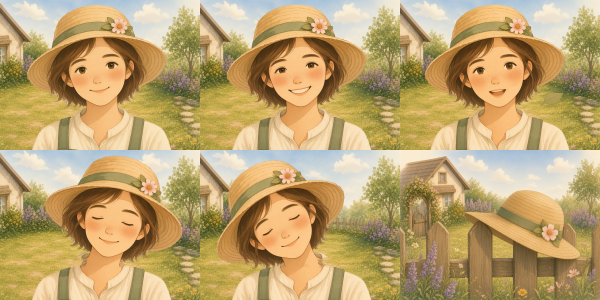
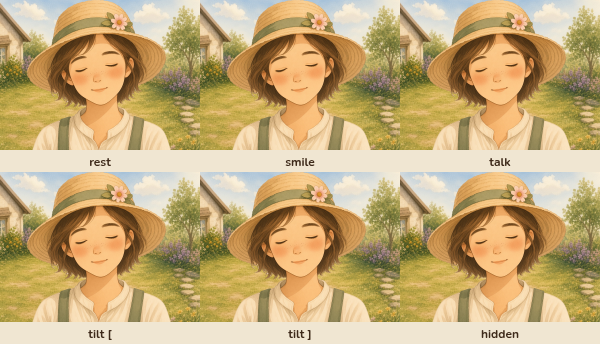
Fix farmer PIP paint, harvest strip layout, and capture harness
Paint farmer frames once (no canvas preflip) with CSS mirror only; keep
the preview video visible in pip-farmer mode instead of the mock oval.
Ensure keyboard mock source starts before doc shots, capture farmer grids
from the live pip with labels, and fix harvest icon z-index plus title layout.

diff --git a/renderer/dev-hooks.js b/renderer/dev-hooks.js
@@ -27,6 +27,7 @@
             show: showScreen, save, toast, mkBtn, gardenTodayKey,
             refreshLighting, renderHud, plotsForScene, syncPipVisibility,
             restorePipHome, startCamera, ensureSource, syncKeyboardStripMode,
+            ensureFarmerPipLive, waitForFarmerPipReady,
             primeSignalTraceForCapture, redrawSignalPanel,
             renderBreathRate, renderStretchHud, ensureStretchRingArt,
             renderSummary, renderMorningSummary, finishVisit,
@@ -803,14 +804,43 @@
             });
             show('summary');
         },
-        setKeyboardModeForCapture(on = true) {
+        async setKeyboardModeForCapture(on = true) {
             config.keyboard = !!on;
             if (on && source && source.setAuto) source.setAuto(false);
             if (els.mockBadge) els.mockBadge.hidden = !on && !config.mock;
             if (on) els.mockMode.textContent = 'Keyboard player';
             syncKeyboardStripMode();
+            if (on) {
+                await ensureFarmerPipLive();
+            }
             renderNeedsCard();
             return config.keyboard;
+        },
+        setFarmerNightRestForCapture() {
+            syncFromApp();
+            if (source && source.setNight) source.setNight(true);
+            if (source && source.setAuto) source.setAuto(false);
+            if (source && source.setKeys) {
+                source.setKeys({
+                    smile: false, talk: false, hide: false, tiltLeft: false, tiltRight: false,
+                });
+            }
+            return true;
+        },
+        async ensureFarmerPipForCapture() {
+            try {
+                await hooks.setKeyboardModeForCapture(true);
+                await ensureFarmerPipLive();
+                await waitForFarmerPipReady(10000);
+                syncFromApp();
+                if (source && source.setNight) {
+                    source.setNight((document.body.dataset.lighting || '') === 'night');
+                }
+                return true;
+            } catch (e) {
+                console.error('[ensureFarmerPipForCapture]', e);
+                return false;
+            }
         },
         exportFarmerStateGridDataUrl() {
             const SF = global.SmileFarmer;
@@ -849,48 +879,82 @@
             }
             return canvas.toDataURL('image/png');
         },
-        exportFarmerStateGridDataUrlWhenReady() {
-            const SF = global.SmileFarmer;
-            if (!SF) return Promise.resolve(null);
-            SF.preload('day');
-            const names = ['rest', 'smile', 'talk-1', 'tilt-left', 'tilt-right', 'hidden'];
-            return new Promise((resolve) => {
-                let left = names.length;
-                let failed = false;
-                const done = () => {
-                    if (!failed) resolve(hooks.exportFarmerStateGridDataUrl());
-                    else resolve(null);
-                };
-                for (const n of names) {
-                    const img = new Image();
-                    img.onload = () => { left -= 1; if (left <= 0) done(); };
-                    img.onerror = () => { failed = true; resolve(null); };
-                    img.src = SF.srcFor('day', n);
-                    if (img.complete && img.naturalWidth > 0) {
-                        left -= 1;
-                    }
-                }
-                if (left <= 0) done();
-            });
-        },
-        prepKeyboardHintsStripShot(opts) {
-            const plot = opts && opts.plot != null ? Number(opts.plot) : 4;
-            const progress = (opts && opts.progress) || { sun: 2, water: 1, fertilizer: 0, stake: false };
-            const channel = (opts && opts.channel) || 'water';
-            hooks.setKeyboardModeForCapture(true);
-            hooks.setNeedsCardDemo(plot, progress);
+        async exportFarmerStateGridFromLivePip() {
             syncFromApp();
-            if (opts && opts.lighting) setLightingOverride(opts.lighting);
-            else refreshLighting();
-            if (opts && opts.harvest) {
-                hooks.prepHarvestTendStripShot(plot);
-            } else {
-                hooks.setTendStripActiveForCapture(channel);
+            if (!els.preview || !els.preview.srcObject) await hooks.ensureFarmerPipForCapture();
+            if (source && source.setAuto) source.setAuto(false);
+            if (source && source.setNight) source.setNight(false);
+            refreshLighting();
+            const tiles = [
+                { label: 'rest', keys: { smile: false, talk: false, hide: false, tiltLeft: false, tiltRight: false } },
+                { label: 'smile', keys: { smile: true, talk: false, hide: false, tiltLeft: false, tiltRight: false } },
+                { label: 'talk', keys: { smile: false, talk: true, hide: false, tiltLeft: false, tiltRight: false } },
+                { label: 'tilt [', keys: { smile: false, talk: false, hide: false, tiltLeft: true, tiltRight: false } },
+                { label: 'tilt ]', keys: { smile: false, talk: false, hide: false, tiltLeft: false, tiltRight: true } },
+                { label: 'hidden', keys: { smile: false, talk: false, hide: true, tiltLeft: false, tiltRight: false } },
+            ];
+            const pipW = 200;
+            const pipH = 150;
+            const labelH = 22;
+            const cols = 3;
+            const canvas = document.createElement('canvas');
+            canvas.width = pipW * cols;
+            canvas.height = (pipH + labelH) * 2;
+            const ctx = canvas.getContext('2d');
+            ctx.fillStyle = '#f0e6d2';
+            ctx.fillRect(0, 0, canvas.width, canvas.height);
+            const v = els.preview;
+            if (!v) return null;
+            for (let i = 0; i < tiles.length; i++) {
+                const col = i % cols;
+                const row = Math.floor(i / cols);
+                const spec = tiles[i];
+                if (source && source.setKeys) source.setKeys(spec.keys);
+                await waitForFarmerPipReady(6000);
+                const x = col * pipW;
+                const y = row * (pipH + labelH);
+                try {
+                    ctx.drawImage(v, x, y, pipW, pipH);
+                } catch { /* ignore */ }
+                ctx.fillStyle = '#3E2A1A';
+                ctx.font = 'bold 12px Nunito, system-ui, sans-serif';
+                ctx.textAlign = 'center';
+                ctx.fillText(spec.label, x + pipW / 2, y + pipH + 16);
             }
-            document.body.dataset.demoCareChannel = channel;
-            renderNeedsCard();
-            hooks.captureRedraw();
-            return true;
+            if (source && source.setKeys) {
+                source.setKeys({ smile: false, talk: false, hide: false, tiltLeft: false, tiltRight: false });
+            }
+            return canvas.toDataURL('image/png');
+        },
+        async prepKeyboardHintsStripShot(opts) {
+            try {
+                const plot = opts && opts.plot != null ? Number(opts.plot) : 4;
+                const progress = (opts && opts.progress) || { sun: 2, water: 1, fertilizer: 0, stake: false };
+                const channel = (opts && opts.channel) || 'water';
+                await hooks.setKeyboardModeForCapture(true);
+                hooks.setNeedsCardDemo(plot, progress);
+                syncFromApp();
+                if (opts && opts.lighting) setLightingOverride(opts.lighting);
+                else refreshLighting();
+                syncFromApp();
+                if (source && source.setNight) {
+                    source.setNight((document.body.dataset.lighting || '') === 'night');
+                }
+                if (opts && opts.harvest) {
+                    hooks.prepHarvestTendStripShot(plot);
+                } else {
+                    hooks.setTendStripActiveForCapture(channel);
+                }
+                document.body.dataset.demoCareChannel = channel;
+                renderNeedsCard();
+                await ensureFarmerPipLive();
+                await waitForFarmerPipReady(10000);
+                hooks.captureRedraw();
+                return true;
+            } catch (e) {
+                console.error('[prepKeyboardHintsStripShot]', e);
+                return false;
+            }
         },
         };
 

diff --git a/scripts/capture-driver.js b/scripts/capture-driver.js
@@ -478,39 +478,50 @@ async function runKeyboardFarmerArt(win, outDir) {
     await G('g.prepCaptureGarden()');
     await sleep(600);
     await js('window.__smileGarden.setMockPipForCapture(true, { stream: true })');
-    await G('g.setKeyboardModeForCapture(true)');
+    const pipBoot = await G('g.ensureFarmerPipForCapture()');
+    if (!pipBoot) throw new Error('ensureFarmerPipForCapture failed during boot');
     await lightingTo('midday');
-    await G(`g.prepKeyboardHintsStripShot({ plot: 4, channel: 'water', progress: { sun: 2, water: 1, fertilizer: 0, stake: false } })`);
-    await sleep(500);
-    await G('g.captureRedraw()');
+    async function prepStrip(channel, progress, harvest) {
+        await G('g.setKeyboardModeForCapture(true)');
+        await G(`g.setNeedsCardDemo(4, ${JSON.stringify(progress)})`);
+        if (harvest) {
+            await G('g.prepHarvestTendStripShot(4)');
+        } else {
+            await G(`g.setTendStripActiveForCapture('${channel}')`);
+            await js(`document.body.dataset.demoCareChannel='${channel}'`);
+        }
+        await G('g.ensureFarmerPipForCapture()');
+        await G('g.captureRedraw()');
+        await sleep(200);
+    }
+    await prepStrip('water', { sun: 2, water: 1, fertilizer: 0, stake: false }, false);
     await shot('keyboard-hints-strip-day.png');
     await lightingTo('night');
-    await G(`g.prepKeyboardHintsStripShot({ plot: 4, channel: 'water', progress: { sun: 1, water: 0, fertilizer: 0, stake: false }, lighting: 'night' })`);
-    await sleep(500);
-    await G('g.captureRedraw()');
+    await G(`g.setLightingOverride('night')`);
+    await sleep(400);
+    await prepStrip('water', { sun: 1, water: 0, fertilizer: 0, stake: false }, false);
     await shot('keyboard-hints-strip-night.png');
     await lightingTo('midday');
-    await G(`g.prepKeyboardHintsStripShot({ plot: 4, harvest: true, channel: 'harvest' })`);
-    await sleep(500);
-    await G('g.captureRedraw()');
+    await prepStrip('harvest', { sun: 3, water: 2, fertilizer: 1, stake: true }, true);
     await shot('keyboard-hints-strip-harvest.png');
 
-    const gridUrl = await js('window.__smileGarden.exportFarmerStateGridDataUrlWhenReady()');
+    const gridUrl = await G('g.exportFarmerStateGridFromLivePip()');
     await writeDataUrl('farmer-states-day.png', gridUrl);
 
     await lightingTo('night');
-    await js(`(() => { const s = window.__smileGarden?.source; if (s) { s.setNight(true); s.setAuto(false); s.setKeys({ smile: false, talk: false, hide: false, tiltLeft: false, tiltRight: false }); } return true; })()`);
+    await js('window.__smileGarden.setMockPipForCapture(true, { stream: true })');
+    await G('g.setNeedsCardDemo(4, {"sun":1,"water":0,"fertilizer":0,"stake":false})');
+    await G('g.ensureFarmerPipForCapture()');
+    await G('g.setFarmerNightRestForCapture()');
     await sleep(400);
     await G('g.captureRedraw()');
     await sleep(200);
+    const pipVis = await G('!document.getElementById("pip").hidden');
+    if (!pipVis) throw new Error('pip hidden before farmer-night');
     await shotPip('farmer-night.png');
 
     await lightingTo('midday');
-    await G('g.setKeyboardModeForCapture(true)');
-    await G(`g.prepKeyboardHintsStripShot({ plot: 4, channel: 'water', progress: { sun: 2, water: 1, fertilizer: 0, stake: false } })`);
-    await js('window.__smileGarden.setMockPipForCapture(true, { stream: true })');
-    await G('g.captureRedraw()');
-    await sleep(300);
+    await prepStrip('water', { sun: 2, water: 1, fertilizer: 0, stake: false }, false);
     await shot('farmer-in-app.png');
 }
 

diff --git a/renderer/app.js b/renderer/app.js
@@ -873,6 +873,35 @@
         }
     }
 
+    async function ensureFarmerPipLive() {
+        if (!config.mock && !config.keyboard) return false;
+        syncKeyboardStripMode();
+        if (!(await ensureSource())) return false;
+        if (source && source.setNight) source.setNight(lighting === 'night');
+        if (!sourceReady) {
+            try { await startCamera(); } catch { return false; }
+        } else {
+            resumePipPreview();
+        }
+        return !!(els.preview && els.preview.srcObject);
+    }
+
+    function waitForFarmerPipReady(timeoutMs) {
+        const deadline = performance.now() + (timeoutMs || 6000);
+        return new Promise((resolve) => {
+            const step = () => {
+                const v = els.preview;
+                if (v && v.srcObject && v.readyState >= 2 && v.videoWidth > 0) {
+                    resolve(true);
+                    return;
+                }
+                if (performance.now() >= deadline) resolve(false);
+                else requestAnimationFrame(step);
+            };
+            step();
+        });
+    }
+
     function renderTendStrip() {
         if (!session || !els.tendStrip || !C || !window.SmileTendStrip) return;
         syncKeyboardStripMode();
@@ -992,17 +1021,19 @@
         source.on('status', (s) => { document.body.dataset.status = s; });
         source.on('error', (e) => handleSdkError(e));
         source.on('stream', (stream) => {
+            const farmerPip = els.pip && els.pip.classList.contains('pip-farmer');
             if (mockPipCapture) {
                 if (mockPipWantStream && stream) {
                     els.preview.srcObject = stream;
                     els.preview.removeAttribute('hidden');
                     if (els.preview.style) els.preview.style.removeProperty('visibility');
-                } else if (els.preview) {
+                } else if (els.preview && !farmerPip) {
                     els.preview.pause();
                     els.preview.srcObject = null;
                     els.preview.setAttribute('hidden', '');
                 }
-                els.pip.classList.toggle('pip-mock-capture', !mockPipWantStream || !els.preview.srcObject);
+                const hideOval = !farmerPip && (!mockPipWantStream || !els.preview.srcObject);
+                els.pip.classList.toggle('pip-mock-capture', hideOval);
                 syncPipVisibility();
                 return;
             }
@@ -2386,7 +2417,7 @@
         syncKeyboardStripMode();
         const resume = screen === 'visit' || screen === 'camera-check';
         if (resume) {
-            startCamera().then(() => {
+            ensureFarmerPipLive().then(() => {
                 syncKeyboardStripMode();
                 if (!source || !source.setPhase) return;
                 if (screen === 'visit' && session) {
@@ -2719,6 +2750,7 @@
         renderBreathRate, renderStretchHud, ensureStretchRingArt,
         renderSummary, renderMorningSummary, finishVisit,
         syncGardenSeasonFromDay, syncHudChipClamp, toggleDev, syncKeyboardStripMode,
+        ensureFarmerPipLive, waitForFarmerPipReady,
     });
 
 

diff --git a/renderer/care-needs.css b/renderer/care-needs.css
@@ -126,6 +126,8 @@ body[data-lighting='night'] .tend-strip {
 .tend-harvest { display: flex; align-items: center; gap: 12px; min-height: 56px; padding: 2px 0 4px; }
 .tend-harvest-icon { position: relative; width: 52px; height: 52px; flex: 0 0 auto; }
 .tend-harvest-icon img { position: relative; z-index: 1; width: 52px; height: 52px; object-fit: contain; }
+.tend-harvest-icon .tend-harvest-glow { z-index: 0; }
+.tend-harvest-icon #tend-harvest-img { z-index: 2; position: relative; }
 .tend-harvest b { display: block; font-family: var(--serif); font-weight: 600; font-size: 20px; line-height: 24px; color: #3E2A1A; }
 .tend-harvest span { display: block; font-family: var(--sans); font-size: 18px; line-height: 22px; color: #6B4F36; font-weight: 700; }
 .tend-strip--harvest .tend-row { display: none; }

diff --git a/renderer/mock-source.js b/renderer/mock-source.js
@@ -97,8 +97,11 @@
             const ctx = canvas.getContext('2d');
             const Farmer = typeof window !== 'undefined' ? window.SmileFarmer : null;
             if (Farmer) {
-                const painted = Farmer.paint(ctx, farmerPaintState(face, talking));
-                if (painted) return;
+                const state = farmerPaintState(face, talking);
+                // Frames are screen-space; the preview video is CSS-mirrored once.
+                state.preflip = false;
+                Farmer.paint(ctx, state);
+                return;
             }
             ctx.fillStyle = '#c4d4e2';
             ctx.fillRect(0, 0, 400, 300);

diff --git a/renderer/keyboard-hints.css b/renderer/keyboard-hints.css
@@ -87,8 +87,9 @@
     min-height: 26px;
 }
 #tend-strip.is-keyboard .tend-harvest-title b {
-    flex: 1 1 auto;
+    flex: 0 1 auto;
     min-width: 0;
+    white-space: nowrap;
 }
 #tend-strip.is-keyboard .tend-harvest-key {
     flex: 0 0 52px;
@@ -102,9 +103,10 @@
 /* Subtitle wraps in the space left of the Enter cap (title line, right). */
 #tend-strip.is-keyboard .tend-harvest-copy > span {
     white-space: normal;
-    padding-right: 60px;
+    padding-right: 0;
     box-sizing: border-box;
     max-width: 100%;
+    line-height: 20px;
 }
 #tend-strip.is-keyboard.tend-strip--harvest {
     min-height: 128px;

diff --git a/renderer/care-needs-render.js b/renderer/care-needs-render.js
@@ -138,7 +138,7 @@
                 harvestIconEl.insertBefore(harvestGlow, harvestImgEl);
             }
             bindImg(harvestGlow, rowGlowSrc('harvest', cardLight), artUrl, null);
-            bindImg(harvestImgEl, ART.needsIconSrc('harvest', 'midday'), artUrl, '🧺');
+            bindImg(harvestImgEl, ART.needsIconSrc('harvest', cardLight === 'night' ? 'night' : 'day'), artUrl, '🧺');
         } else if (harvestIconEl) {
             harvestIconEl.classList.remove('is-active');
         }

diff --git a/renderer/index.html b/renderer/index.html
@@ -142,8 +142,10 @@
             <div id="tend-harvest-icon" class="tend-harvest-icon">
                 <img id="tend-harvest-img" alt="">
             </div>
-            <div>
-                <b>Ready to harvest</b>
+            <div class="tend-harvest-copy">
+                <div class="tend-harvest-title">
+                    <b>Ready to harvest</b>
+                </div>
                 <span>Breathe slowly to pick it</span>
             </div>
         </div>
